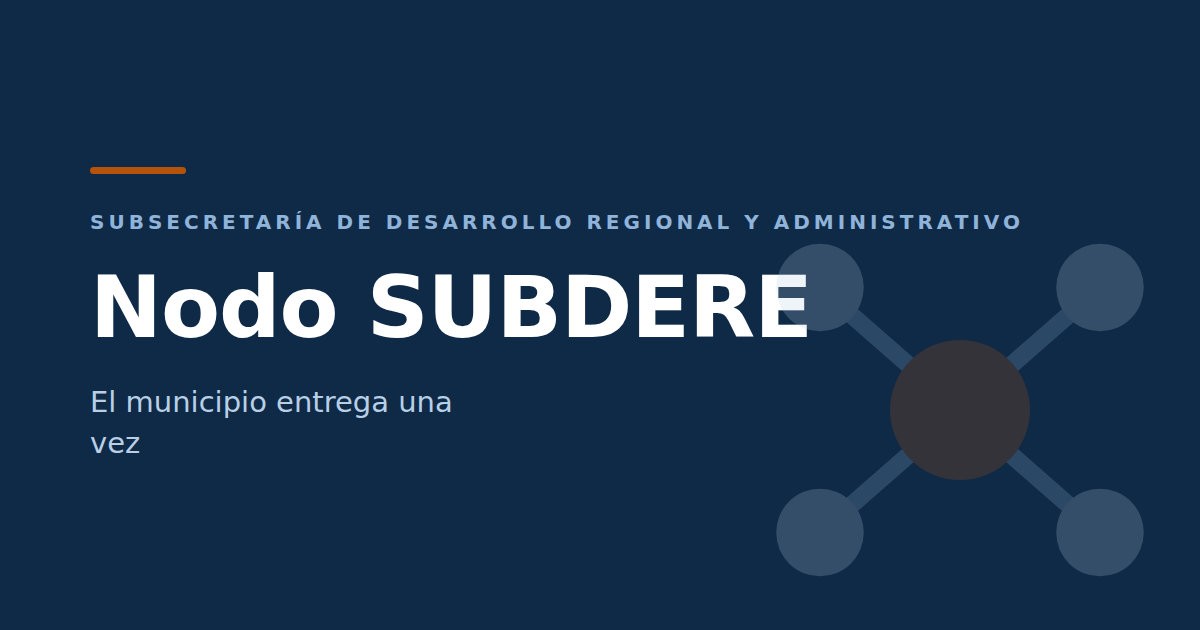
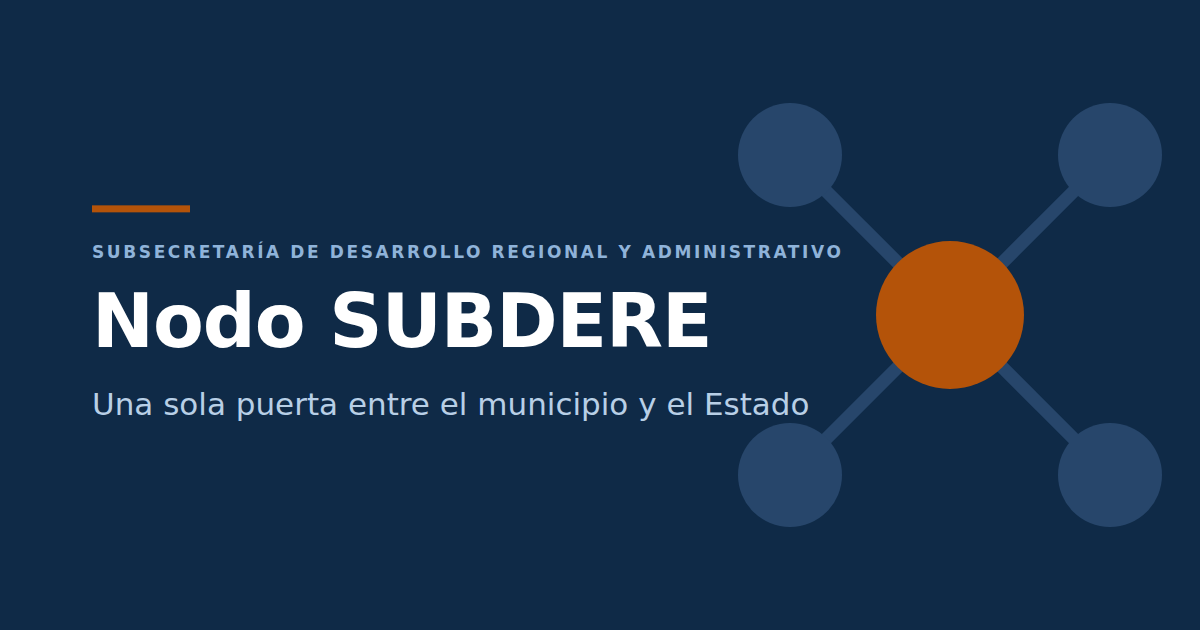
Revise HTML content to enhance clarity on the Nodo SUBDERE's functionality. Updated descriptions to emphasize the single connection model for municipalities, highlighting the benefits of validation and delivery confirmation. Adjusted sections to ensure consistent messaging across all pages regarding

Changed region(s): [[0.0617, 0.1508, 0.9867, 0.9349], [0.0617, 0.6937, 0.1233, 0.7238]]

diff --git a/prototipos/index.html b/prototipos/index.html
@@ -4,12 +4,12 @@
 <meta charset="utf-8">
 <meta name="viewport" content="width=device-width, initial-scale=1">
 <title>Nodo SUBDERE</title>
-<meta name="description" content="El punto donde el dato municipal se conecta con el Estado. El municipio entrega una vez.">
+<meta name="description" content="Una sola puerta entre el municipio y el Estado: un contrato técnico publicado por cada intercambio, validación antes de enviar y constancia de lo entregado.">
 <link rel="icon" href="assets/favicon.svg" type="image/svg+xml">
 <meta property="og:type" content="website">
 <meta property="og:site_name" content="Nodo SUBDERE">
 <meta property="og:title" content="Nodo SUBDERE">
-<meta property="og:description" content="El punto donde el dato municipal se conecta con el Estado. El municipio entrega una vez.">
+<meta property="og:description" content="Una sola puerta entre el municipio y el Estado: un contrato técnico publicado por cada intercambio, validación antes de enviar y constancia de lo entregado.">
 <meta property="og:url" content="https://jaimehernandeze.github.io/nodo-subdere/index.html">
 <meta property="og:image" content="https://jaimehernandeze.github.io/nodo-subdere/assets/og.png">
 <meta property="og:image:width" content="1200">
@@ -35,9 +35,9 @@
 
 <div class="hero"><div class="wrap">
   <p class="eyebrow">Subsecretaría de Desarrollo Regional y Administrativo</p>
-  <h1>El municipio entrega una vez</h1>
-  <p>El Nodo SUBDERE es el lugar donde el dato municipal se conecta con el resto del Estado: un contrato técnico publicado y el componente que lo opera, para que cada municipio entregue su información una sola vez y llegue a cada destino en el formato que ese destino ya acepta.</p>
-  <p>No es un sistema que el municipio tenga que operar, y no le exige cambiar el que tiene.</p>
+  <h1>Una sola puerta entre el municipio y el Estado</h1>
+  <p>En vez de una conexión distinta con cada institución que le pide información, el municipio tiene una. El Nodo SUBDERE publica el contrato técnico de cada intercambio, revisa antes de enviar y deja constancia de lo entregado.</p>
+  <p>No reemplaza ninguna plataforma: entrega a cada una en el formato que ya acepta. Y no es un sistema que el municipio tenga que operar, ni le exige cambiar el que tiene.</p>
   <div class="acciones">
     <a class="btn btn-p" href="catalogo.html">Ver el catálogo de nodos</a>
     <a class="btn btn-s" href="que-es.html">Cómo funciona</a>
@@ -46,9 +46,9 @@
 
 <section><div class="wrap">
   <p class="eyebrow">Qué resuelve</p>
-  <h2>Hoy el mismo dato se prepara y se entrega varias veces</h2>
-  <p class="lead">Un municipio consolida su información una vez y después la vuelve a armar para cada destino que se la pide, en un formato distinto cada vez. Ninguna de esas entregas la hace un sistema: las hace una persona, todos los meses.</p>
-  <div class="cols-3">
+  <h2>Hoy hay una conexión distinta por cada institución que pide</h2>
+  <p class="lead">Cada destino define su formato, su portal y su credencial. El municipio vuelve a armar la misma información para cada uno, la entrega sin saber si está correcta y después no tiene cómo comprobar qué mandó. Ninguna de esas entregas la hace un sistema: las hace una persona, todos los meses.</p>
+  <div class="cols-2">
     <div class="card">
       <div class="num">01</div>
       <h3>Entrega una vez, llega a todos</h3>
@@ -56,11 +56,16 @@
     </div>
     <div class="card">
       <div class="num">02</div>
+      <h3>Sabe antes de enviar si está correcta</h3>
+      <p>El nodo revisa contra la regla que el destinatario publicó, y devuelve las observaciones en la pantalla donde el funcionario trabaja. Validar es gratis, se puede repetir, y no envía nada.</p>
+    </div>
+    <div class="card">
+      <div class="num">03</div>
       <h3>Recibe constancia de lo que entregó</h3>
       <p>Qué salió, cuándo y a dónde, consultable cuando quiera. Autorizar el envío es un permiso; poder comprobarlo después es una garantía.</p>
     </div>
     <div class="card">
-      <div class="num">03</div>
+      <div class="num">04</div>
       <h3>Una identidad, no un registro por plataforma</h3>
       <p>Hoy cada plataforma lleva su propio padrón de quién es quién en el municipio. Con una identidad común deja de repetirse el mismo registro en cada una.</p>
     </div>

diff --git a/prototipos/que-es.html b/prototipos/que-es.html
@@ -4,12 +4,12 @@
 <meta charset="utf-8">
 <meta name="viewport" content="width=device-width, initial-scale=1">
 <title>Qué es el nodo · Nodo SUBDERE</title>
-<meta name="description" content="Un contrato técnico publicado y el componente que lo opera, para que el municipio entregue una sola vez.">
+<meta name="description" content="La puerta única entre el municipio y las instituciones que le piden información: cómo funciona y hasta dónde llega la validación.">
 <link rel="icon" href="assets/favicon.svg" type="image/svg+xml">
 <meta property="og:type" content="website">
 <meta property="og:site_name" content="Nodo SUBDERE">
 <meta property="og:title" content="Qué es el nodo · Nodo SUBDERE">
-<meta property="og:description" content="Un contrato técnico publicado y el componente que lo opera, para que el municipio entregue una sola vez.">
+<meta property="og:description" content="La puerta única entre el municipio y las instituciones que le piden información: cómo funciona y hasta dónde llega la validación.">
 <meta property="og:url" content="https://jaimehernandeze.github.io/nodo-subdere/que-es.html">
 <meta property="og:image" content="https://jaimehernandeze.github.io/nodo-subdere/assets/og.png">
 <meta property="og:image:width" content="1200">
@@ -36,7 +36,8 @@
 <section><div class="wrap">
   <p class="eyebrow">Descripción general</p>
   <h2>Un contrato técnico publicado, y el componente que lo opera</h2>
-  <p class="lead">El Nodo SUBDERE existe para que el municipio entregue su información una sola vez y llegue a cada destino en el formato que ese destino ya acepta. No reemplaza a ninguna plataforma existente: mantiene un adaptador por cada una y les entrega en el formato que hoy usan.</p>
+  <p class="lead">El Nodo SUBDERE es la puerta única entre el municipio y las instituciones que le piden información. En vez de mantener una conexión por cada una, el municipio mantiene una: entrega su información una sola vez, sabe antes de enviar si está correcta y queda con constancia de lo que entregó.</p>
+  <p class="lead">No reemplaza a ninguna plataforma existente: mantiene un adaptador por cada una y les entrega en el formato que hoy usan.</p>
   <p class="lead"><strong>Es una conexión entre sistemas.</strong> El nodo no tiene pantallas para que un funcionario cargue planillas: las plataformas que reciben ya tienen sus propios canales de carga y el nodo no los duplica. Quien conversa con el nodo es el sistema de gestión del municipio, y lo hace contra un contrato técnico publicado.</p>
 </div></section>
 

diff --git a/prototipos/participar.html b/prototipos/participar.html
@@ -37,7 +37,7 @@
   <p class="eyebrow">Cómo participar</p>
   <h2>Tres caminos, según quién sea usted</h2>
   <p class="lead">El nodo distingue dos planos que conviene no mezclar: <strong>construir y probar</strong>, que está abierto a cualquiera sin convenio ni datos reales; y <strong>operar con datos de un municipio</strong>, que requiere la autorización de ese municipio.</p>
-  <p class="lead">Y una precisión de entrada: <strong>el nodo conecta sistemas, no personas.</strong> No tiene pantalla para subir planillas, y no la va a tener — para eso ya existen los canales de carga de las plataformas que reciben. Lo que el nodo aporta es que el sistema del municipio entregue una sola vez y reciba constancia.</p>
+  <p class="lead">Y una precisión de entrada: <strong>el nodo conecta sistemas, no personas.</strong> No tiene pantalla para subir planillas, y no la va a tener — para eso ya existen los canales de carga de las plataformas que reciben. Lo que el nodo aporta es que el sistema del municipio mantenga una sola conexión en vez de una por institución: entrega una vez, sabe antes de enviar si está correcto y recibe constancia.</p>
 </div></section>
 
 <section class="gris"><div class="wrap">
